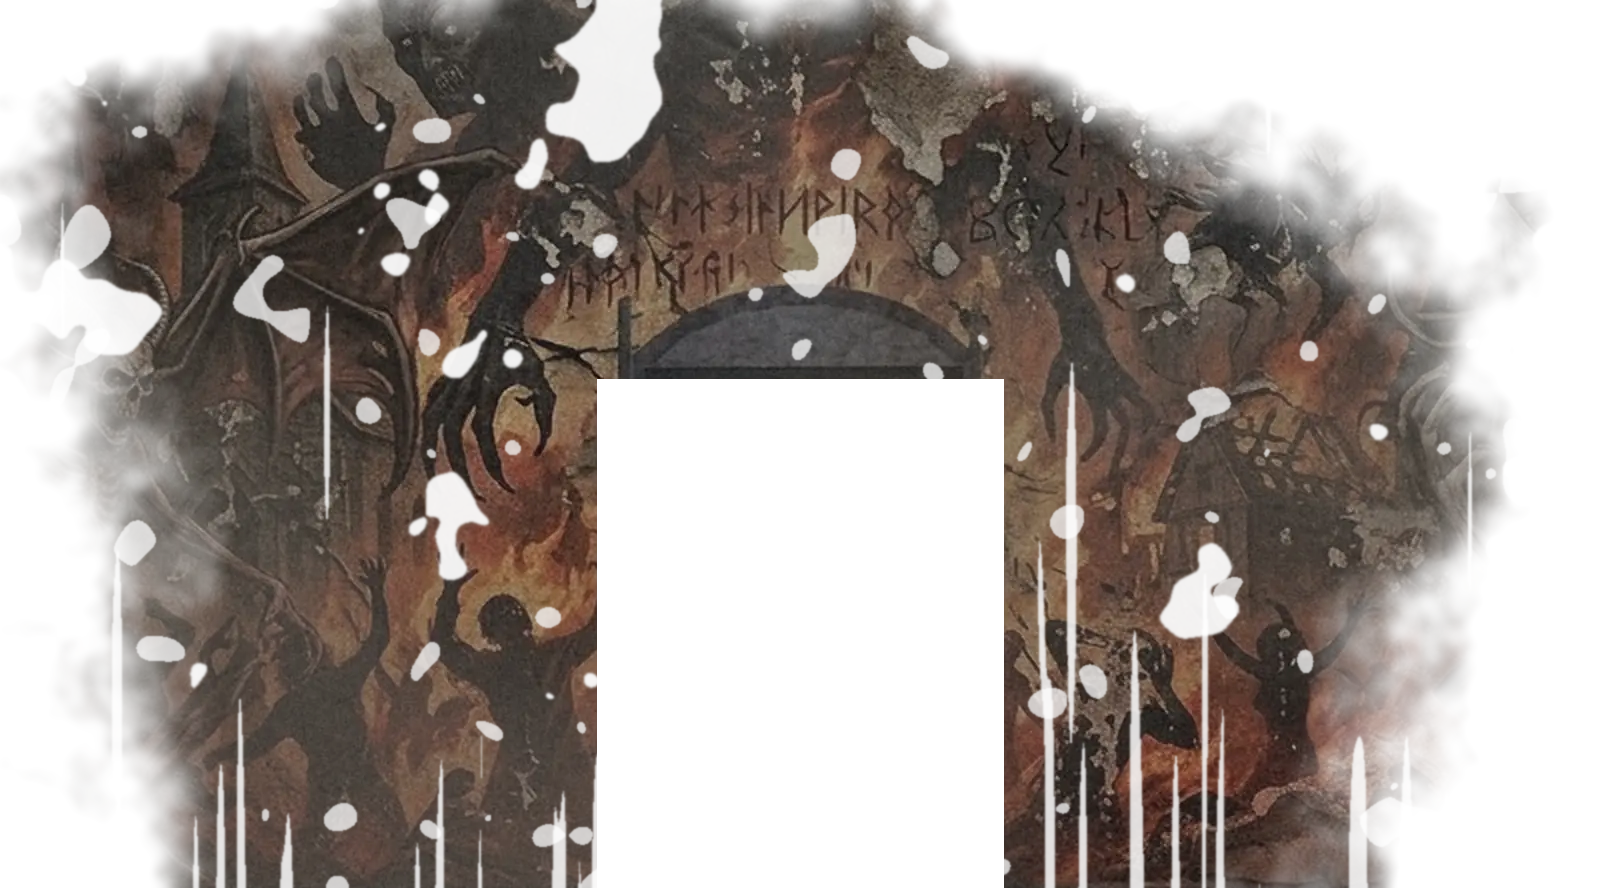
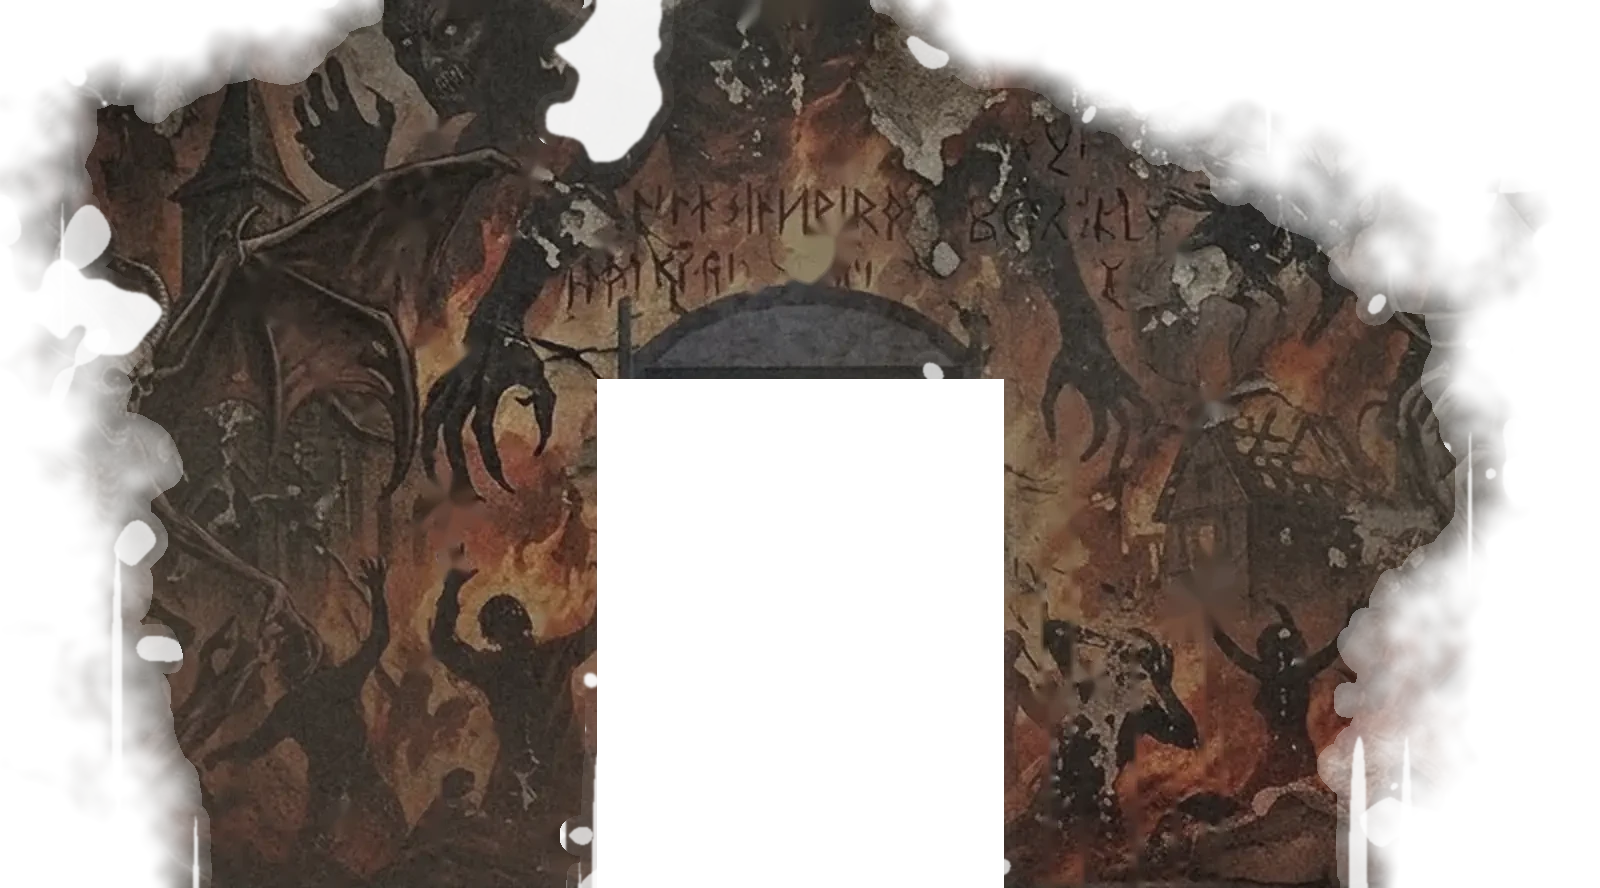
Cantina: murale della parete in fondo pieno (niente buchi che mostrano il vuoto dietro)
Claude-Session: https://claude.ai/code/session_014dApnh5cQuMdZvTWDcVASP

diff --git a/sw.js b/sw.js
@@ -3,7 +3,7 @@
  * - Asset pesanti (modelli, texture, audio): cache separata; scaricati in background dopo l'installazione.
  * Le due versioni qui sotto le aggiorna tools/bump.sh a ogni modifica (hash del contenuto): non toccarle a mano. */
 const SHELL_VERSION = '707dbf1197';   // @shell
-const ASSET_VERSION = 'edf955bcbc';   // @assets
+const ASSET_VERSION = 'c5278d8dba';   // @assets
 const SHELL = 'ng-shell-' + SHELL_VERSION, ASSETS = 'ng-assets-' + ASSET_VERSION;
 const SHELL_FILES = ['./','./css/style.css','./icons/icon-180.png','./icons/icon-192.png','./icons/icon-32.png','./icons/icon-512.png','./icons/maskable-512.png','./index.html','./js/audio/ambience.js','./js/audio/audio.js','./js/audio/hall.js','./js/events/ambient.js','./js/events/cellar.js','./js/events/combat.js','./js/events/dawn.js','./js/events/door.js','./js/events/film-shrine.js','./js/events/glass.js','./js/events/hall.js','./js/events/hound.js','./js/events/keypad.js','./js/events/lightblade.js','./js/events/morgue.js','./js/events/notes.js','./js/events/rats.js','./js/events/scare.js','./js/events/sorella.js','./js/events/space.js','./js/events/torch.js','./js/events/tower.js','./js/events/tv.js','./js/events/ward.js','./js/events/warehouse.js','./js/main.js','./js/personal.js','./js/player/chapel-approach.js','./js/player/controls.js','./js/player/player.js','./js/pwa.js','./js/render/quality.js','./js/render/scene.js','./js/story.js','./js/ui/instability.js','./js/ui/rgbshift.js','./js/world/aged.js','./js/world/atmos.js','./js/world/bedroom.js','./js/world/bend.js','./js/world/blood.js','./js/world/bloodfont.js','./js/world/breath.js','./js/world/candles.js','./js/world/chapel.js','./js/world/contact-shadows.js','./js/world/decor.js','./js/world/dust.js','./js/world/electrical-panel.js','./js/world/elevator.js','./js/world/extra.js','./js/world/film-catalog.js','./js/world/film-shrine.js','./js/world/fingerwrite.js','./js/world/lights.js','./js/world/materials.js','./js/world/morgue-wall.js','./js/world/nun.js','./js/world/portal.js','./js/world/props.js','./js/world/radiograph.js','./js/world/redlight.js','./js/world/reflection-substitute.js','./js/world/rooms.js','./js/world/rosary.js','./js/world/round-lamps.js','./js/world/rusted-door-frame.js','./js/world/tunnel.js','./js/world/worn-paper.js','./js/world/worn-steel.js','./manifest.webmanifest','./vendor/three/LICENSE','./vendor/three/Reflector.js','./vendor/three/loaders/GLTFLoader.js','./vendor/three/three.module.min.js','./vendor/three/utils/BufferGeometryUtils.js']; // @shellfiles
 const ASSET_FILES = ['./assets/audio/crowd_drone.mp3','./assets/audio/demon_growl.mp3','./assets/audio/fire_swoosh.mp3','./assets/audio/hound_breath.mp3','./assets/audio/step0.mp3','./assets/audio/step1.mp3','./assets/audio/step2.mp3','./assets/audio/step3.mp3','./assets/audio/step4.mp3','./assets/models/agnese/suor-agnese.glb','./assets/models/ammo.glb','./assets/models/axe.glb','./assets/models/bin.glb','./assets/models/c_nurse.glb','./assets/models/c_occ.glb','./assets/models/cabinet.glb','./assets/models/cam.glb','./assets/models/can.glb','./assets/models/cart.glb','./assets/models/chair.glb','./assets/models/door.glb','./assets/models/gate.glb','./assets/models/hlamp.glb','./assets/models/hound.glb','./assets/models/hs_bed.glb','./assets/models/hw_door_1.glb','./assets/models/hw_wheel_chair.glb','./assets/models/kit_cables.glb','./assets/models/kit_fence.glb','./assets/models/kit_gutter.glb','./assets/models/kit_ind.glb','./assets/models/kit_manhole.glb','./assets/models/kit_pipes.glb','./assets/models/lamp.glb','./assets/models/m_bell.glb','./assets/models/m_diver.glb','./assets/models/m_nurse.glb','./assets/models/m_occ.glb','./assets/models/m_pirate.glb','./assets/models/m_root.glb','./assets/models/m_varka.glb','./assets/models/m_whisperer.glb','./assets/models/mg_chair.glb','./assets/models/mg_tool1.glb','./assets/models/mg_tool3.glb','./assets/models/mg_tool4.glb','./assets/models/mg_wall.glb','./assets/models/pistol.glb','./assets/models/rack.glb','./assets/models/rim.glb','./assets/models/seclight.glb','./assets/models/shelf.glb','./assets/models/slamp1.glb','./assets/models/slamp2.glb','./assets/models/sorella.glb','./assets/models/stool.glb','./assets/models/stove.glb','./assets/models/tank.glb','./assets/models/whisperer.glb','./assets/models/wlamp.glb','./assets/models/x_basket.glb','./assets/models/x_bust.glb','./assets/models/x_clock.glb','./assets/models/x_gnome.glb','./assets/models/x_lion.glb','./assets/models/x_micro.glb','./assets/models/x_rat.glb','./assets/models/x_screen.glb','./assets/models/x_spray.glb','./assets/models/x_tv.glb','./assets/models/x_watch.glb','./assets/tex/alt_stone.jpg','./assets/tex/bath_bg.jpg','./assets/tex/blood_digits.png','./assets/tex/blood_font.png','./assets/tex/blood_real.png','./assets/tex/brick_c.jpg','./assets/tex/brick_n.jpg','./assets/tex/brick_orm.jpg','./assets/tex/elevator_details.webp','./assets/tex/elevator_mural.webp','./assets/tex/film-shrine/collection.webp','./assets/tex/film-shrine/featured.webp','./assets/tex/film-shrine/sources.json','./assets/tex/floorA_c.jpg','./assets/tex/floorA_n.jpg','./assets/tex/floorA_orm.jpg','./assets/tex/floorB_c.jpg','./assets/tex/floorB_n.jpg','./assets/tex/floorB_orm.jpg','./assets/tex/floor_planks.jpg','./assets/tex/foot_l.png','./assets/tex/foot_r.png','./assets/tex/hall_bg.jpg','./assets/tex/handA.png','./assets/tex/handC.png','./assets/tex/handM.png','./assets/tex/handN.png','./assets/tex/mg_floor.jpg','./assets/tex/morgue_doll_head.webp','./assets/tex/morgue_wall_atlas.webp','./assets/tex/night_bg.jpg','./assets/tex/pic_alice.jpg','./assets/tex/pic_anatomy.webp','./assets/tex/pic_burn_figure.webp','./assets/tex/pic_chapel_altar.webp','./assets/tex/pic_chapel_hell.webp','./assets/tex/pic_chapel_skel.webp','./assets/tex/pic_charcoal.webp','./assets/tex/pic_corridor.webp','./assets/tex/pic_drawing.jpg','./assets/tex/pic_drawing2.webp','./assets/tex/pic_elisa.jpg','./assets/tex/pic_elisa_altar_burnt.webp','./assets/tex/pic_family.webp','./assets/tex/pic_kid_1.webp','./assets/tex/pic_kid_2.webp','./assets/tex/pic_kid_3.webp','./assets/tex/pic_kid_4.webp','./assets/tex/pic_laya.jpg','./assets/tex/pic_mural_angel.webp','./assets/tex/pic_mural_angels.webp','./assets/tex/pic_mural_cathedral.webp','./assets/tex/pic_mural_child.webp','./assets/tex/pic_mural_corridor.webp','./assets/tex/pic_mural_demon.webp','./assets/tex/pic_mural_dog.webp','./assets/tex/pic_mural_door.webp','./assets/tex/pic_mural_eyes.webp','./assets/tex/pic_mural_faces.webp','./assets/tex/pic_mural_fire.webp','./assets/tex/pic_mural_inferno.webp','./assets/tex/pic_mural_nun.webp','./assets/tex/pic_mural_ritual.webp','./assets/tex/pic_mural_skull.webp','./assets/tex/pic_mural_throne.webp','./assets/tex/pic_mural_wide.webp','./assets/tex/pic_rebecca.jpg','./assets/tex/pic_saint.webp','./assets/tex/pic_steve.jpg','./assets/tex/pic_window.webp','./assets/tex/pic_yana.jpg','./assets/tex/pt_altar_mold.webp','./assets/tex/pt_blocks.webp','./assets/tex/pt_gravel.webp','./assets/tex/pt_layers.webp','./assets/tex/pt_mold.webp','./assets/tex/pt_plaster.webp','./assets/tex/pt_rough.webp','./assets/tex/pt_stain.webp','./assets/tex/rust_c.jpg','./assets/tex/rust_n.jpg','./assets/tex/rust_orm.jpg','./assets/tex/rust_ov.jpg','./assets/tex/rust_ov2.jpg','./assets/tex/stone_c.jpg','./assets/tex/stone_n.jpg','./assets/tex/stone_orm.jpg','./assets/tex/sym_eye.png','./assets/tex/sym_face.png','./assets/tex/sym_house.png','./assets/tex/wallpaper_burnt.jpg','./assets/tex/ward_ceiling.jpg','./assets/tex/wr_elisa_1.png','./assets/tex/wr_elisa_2.png','./assets/tex/wr_elisa_3.png','./assets/tex/wr_elisa_4.png','./assets/tex/wr_elisa_h.png','./assets/tex/wr_elisa_m.png','./assets/tex/wr_elisa_o.png','./assets/tex/wr_sigil.png','./assets/tex/wr_std_c2.png','./assets/tex/wr_std_h.png','./assets/tex/wr_std_m.png','./assets/tex/wr_std_o.png','./assets/tex/wr_std_t1.png','./assets/tex/wr_std_t3.png','./assets/tex/wr_std_w4.png','./assets/tex/wr_thai.webp','./assets/tex/wr_yana_1.png','./assets/tex/wr_yana_2.png','./assets/tex/wr_yana_3.png','./assets/tex/wr_yana_4.png','./assets/tex/wr_yana_h.png','./assets/tex/wr_yana_m.png','./assets/tex/wr_yana_o.png','./assets/tex/xray_elisa.webp']; // @assetfiles
